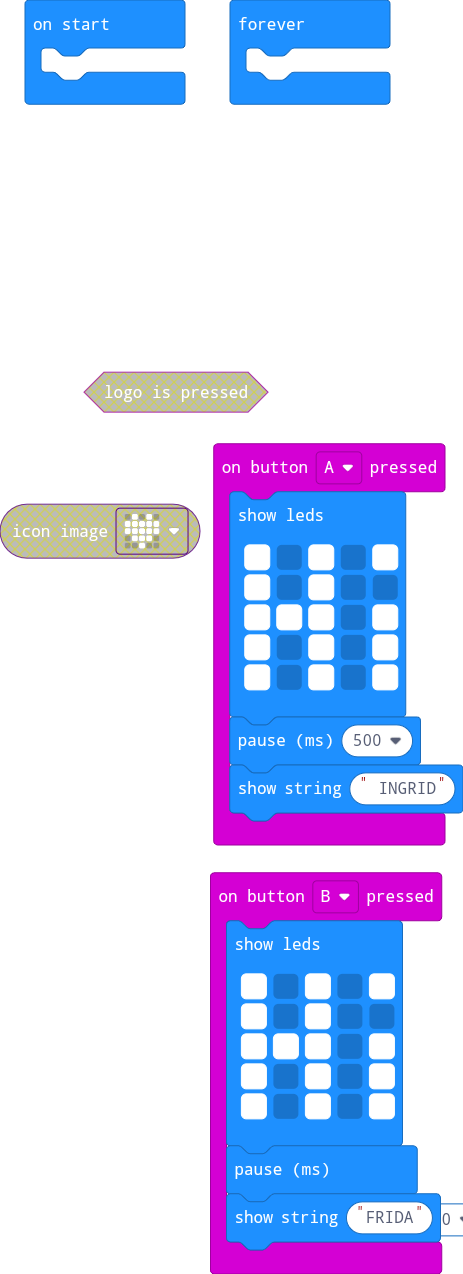
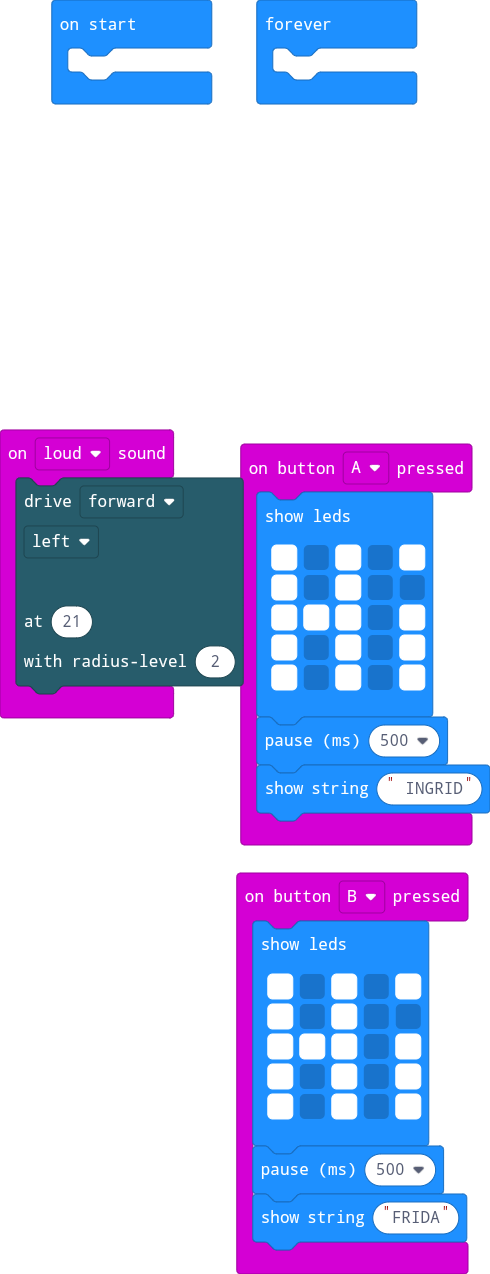
Two button press added

diff --git a/main.ts b/main.ts
@@ -9,6 +9,14 @@ input.onButtonPressed(Button.A, function () {
     basic.pause(500)
     basic.showString(" INGRID")
 })
+input.onSound(DetectedSound.Loud, function () {
+    JoyCar.turn(
+    FRDirection.Forward,
+    LRDirection.Left,
+    21,
+    2
+    )
+})
 input.onButtonPressed(Button.B, function () {
     basic.showLeds(`
         # . # . #
